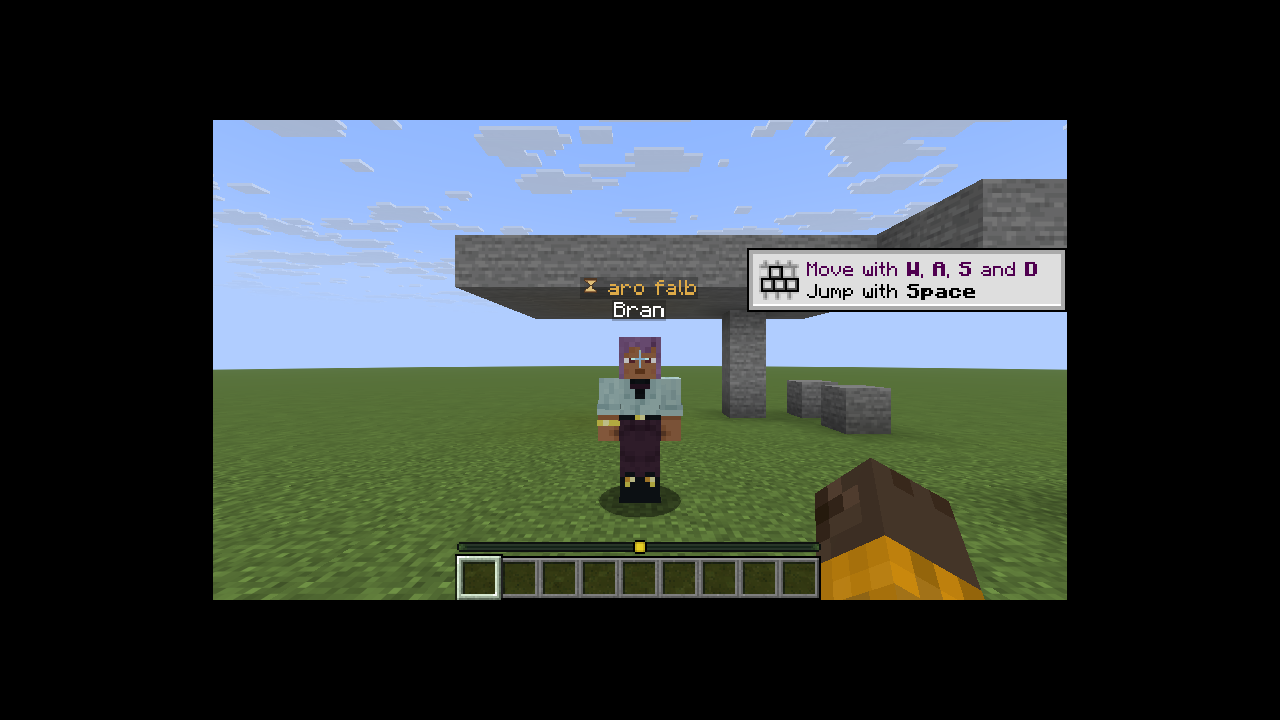
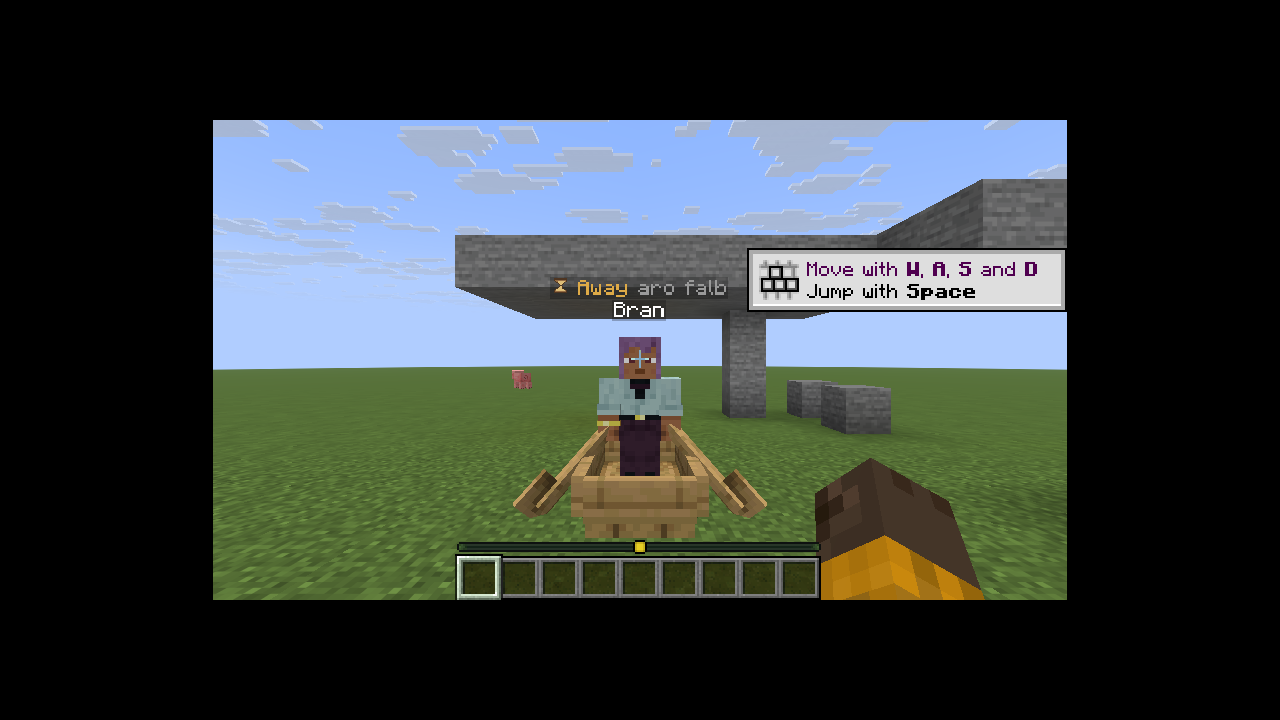
Activity: English main label, native word in grey, labelMode config
Claude-Session: https://claude.ai/code/session_01Q3r8pecwvMS1W96eBwVFz9

diff --git a/diaithir-activity/src/main/java/net/diaithir/activity/ActivityConfig.java b/diaithir-activity/src/main/java/net/diaithir/activity/ActivityConfig.java
@@ -18,6 +18,7 @@ public final class ActivityConfig {
     public static final ModConfigSpec.DoubleValue ICON_SCALE;
     public static final ModConfigSpec.BooleanValue SHOW_LABEL;
     public static final ModConfigSpec.ConfigValue<String> LABEL_COLOR;
+    public static final ModConfigSpec.ConfigValue<String> LABEL_MODE;
 
     static {
         ModConfigSpec.Builder b = new ModConfigSpec.Builder();
@@ -33,6 +34,7 @@ public final class ActivityConfig {
         ICON_SCALE = c.comment("Size of the icon line. 1.0 is the size of the nameplate text.").defineInRange("iconScale", 1.0, 0.5, 3.0);
         SHOW_LABEL = c.comment("Write the name of the activity next to its icon.").define("showLabel", true);
         LABEL_COLOR = c.comment("Colour of the label as a hex value.").define("labelColor", "#DEAA46");
+        LABEL_MODE = c.comment("Which word to show: both (English, then the native word in grey), english or native.").define("labelMode", "both");
         CLIENT = c.build();
     }
 

diff --git a/diaithir-activity/src/main/java/net/diaithir/activity/ActivityRenderer.java b/diaithir-activity/src/main/java/net/diaithir/activity/ActivityRenderer.java
@@ -74,7 +74,9 @@ final class ActivityRenderer {
     static Component line(ActivityData.Def def) {
         MutableComponent out = Component.object(new AtlasSprite(Identifier.parse(def.atlas()), Identifier.parse(def.sprite())));
         if (ActivityConfig.SHOW_LABEL.get()) {
-            out.append(Component.literal(" ")).append(Component.translatable(def.label()).withColor(color()));
+            String mode = ActivityConfig.LABEL_MODE.get();
+            if (!mode.equals("native")) out.append(Component.literal(" ")).append(Component.translatable(def.label()).withColor(color()));
+            if (!mode.equals("english")) out.append(Component.literal(" ")).append(Component.translatable(def.label() + ".native").withColor(0x9A9A9A));
         }
         return out;
     }
